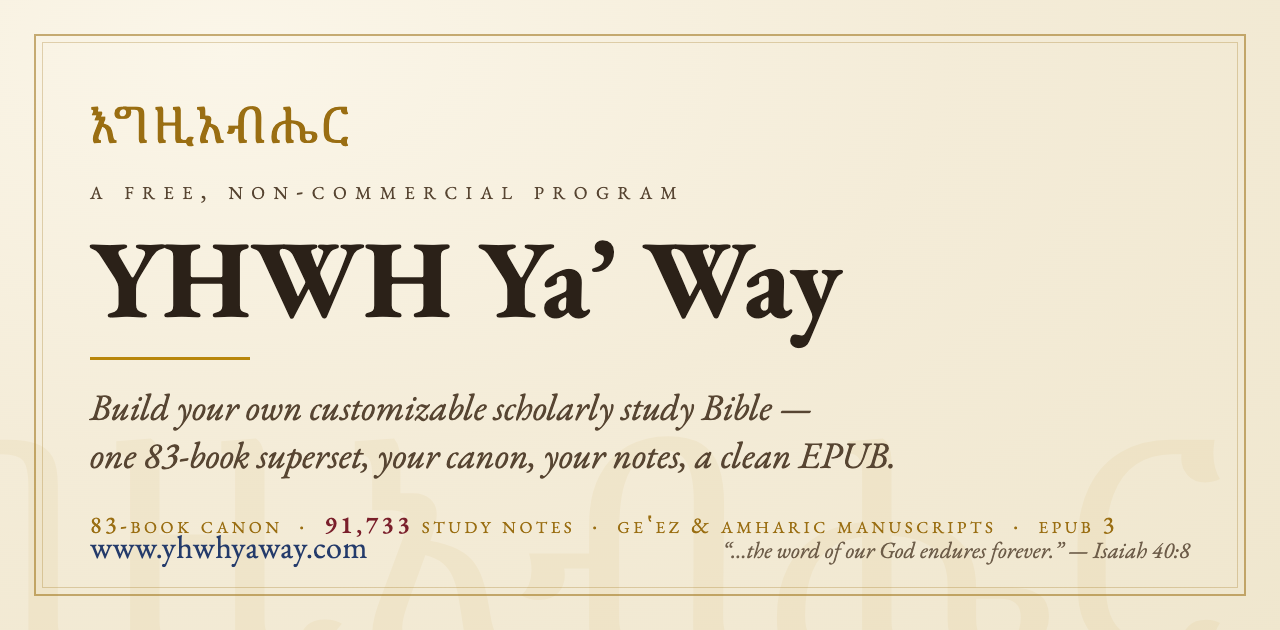
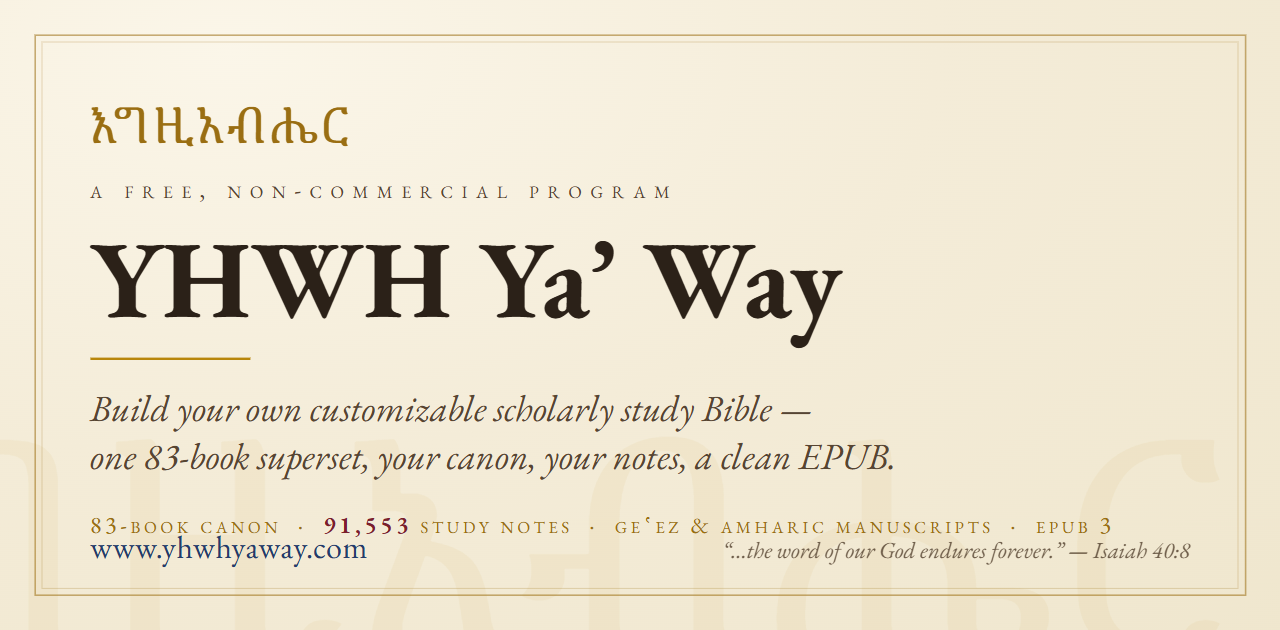
post-v0.1.0 copy sweep: beta-live wording (drop 'posted very soon'), roadmap release stage -> Shipped, social card 91,553

diff --git a/roadmap.html b/roadmap.html
@@ -101,11 +101,12 @@
           <p>Transcribing a complete Bible in classical Geʽez directly from the original manuscripts, witness
             by witness, with a faithful English back-translation after each book. It is slow, careful work. <em>1 and 2 Samuel are complete; the books of Kings are underway.</em></p>
         </li>
-        <li class="stage is-active">
-          <span class="stage-badge">Opening soon</span>
+        <li class="stage is-shipped">
+          <span class="stage-badge">Shipped</span>
           <h3>The first public release (Beta)</h3>
-          <p>Preparing the first public <strong>beta</strong> of the desktop program — free, complete, and
-            open for everyone to try, with feedback warmly wanted. <a href="releases.html">See downloads &amp; releases →</a></p>
+          <p>The first public <strong>beta</strong> of the desktop program is live — v0.1.0 for Windows,
+            macOS, and Linux: free, complete, and open for everyone to try, with feedback warmly
+            wanted. <a href="releases.html">See downloads &amp; releases →</a></p>
         </li>
       </ol>
     </section>

diff --git a/index.html b/index.html
@@ -352,8 +352,8 @@
     <section class="band" aria-labelledby="get-it">
       <h2 id="get-it" class="rule">Get the program</h2>
       <p class="prose">YHWH Ya’ Way is free, and it runs entirely on your own computer — Windows, macOS, and
-        Linux. The <strong>public beta</strong> is live — an early, complete build, posted for
-        download very soon, with rough edges welcome and your feedback wanted.</p>
+        Linux. The <strong>public beta</strong> is live — an early, complete build, with rough
+        edges welcome and your feedback wanted.</p>
       <p class="platforms">
         <a class="btn-primary" href="releases.html">Get the beta →</a>
       </p>
